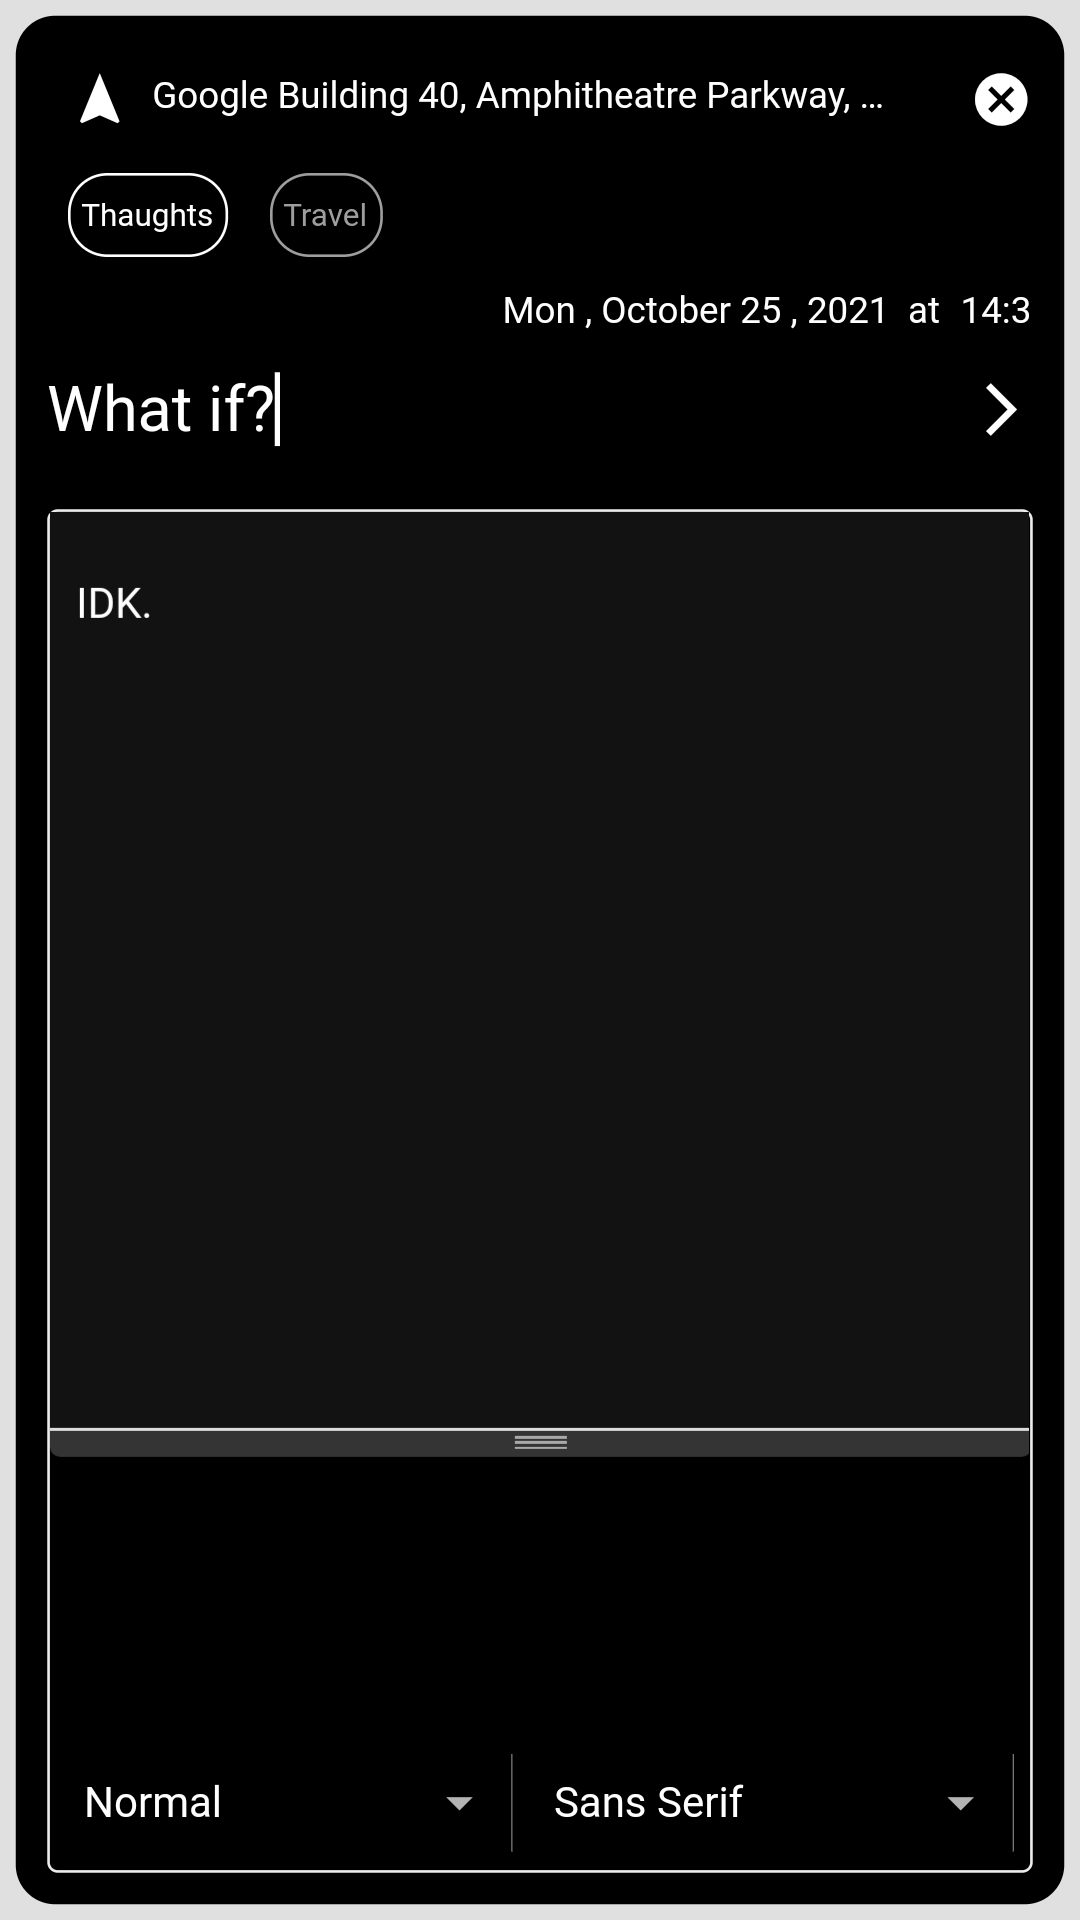
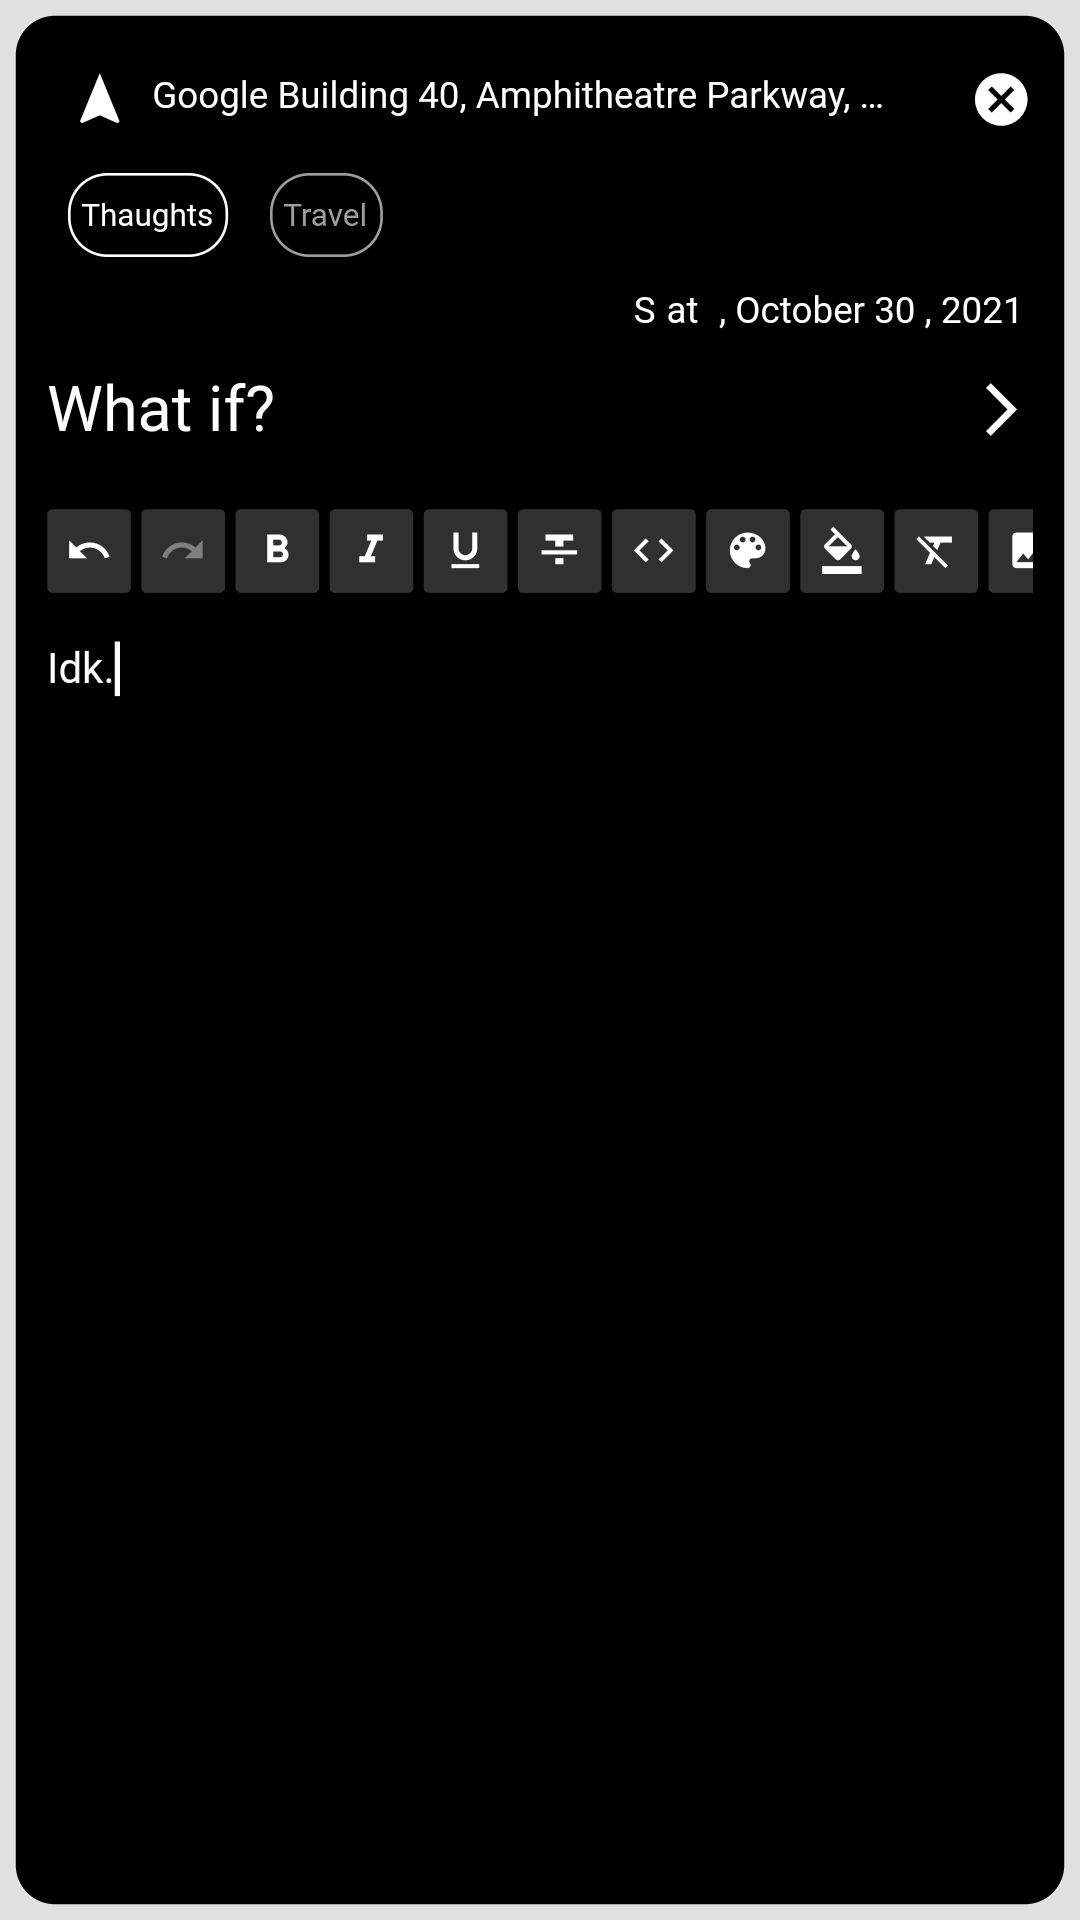
minor bug fixes and version upgrade

diff --git a/lib/momento_mori.dart b/lib/momento_mori.dart
@@ -63,9 +63,9 @@ class _MomentoMoriState extends State<MomentoMori> {
             ),
             Expanded(
                 child: MoriCal(
-              weekGoingOn: (_today.millisecondsSinceEpoch -
+              yearGoingOn: (_today.millisecondsSinceEpoch -
                       DateTime(value.year).millisecondsSinceEpoch) ~/
-                  6.048e+8,
+                  3.154e+10,
             )),
             SizedBox(
               height: 6,
@@ -92,32 +92,31 @@ class _MomentoMoriState extends State<MomentoMori> {
   }
 }
 
-// TODO Slow UI
 class MoriCal extends StatelessWidget {
   const MoriCal({
     Key? key,
-    required this.weekGoingOn,
+    required this.yearGoingOn,
   }) : super(key: key);
 
-  final int weekGoingOn;
+  final int yearGoingOn;
 
   final colCount = 10;
-  final totalWeeks = 4160;
+  final totalyears = 80;
 
   @override
   Widget build(BuildContext context) {
     return SingleChildScrollView(
       child: Column(
           children: List.generate(
-        totalWeeks ~/ colCount,
+        totalyears ~/ colCount,
         (rowIn) => Row(
           children: List.generate(
               colCount,
               (colIn) => Week(
                     key: Key((rowIn * colCount + colIn).toString()),
                     index: rowIn * colCount + colIn,
-                    color: (rowIn * colCount + colIn) >= weekGoingOn
-                        ? (rowIn * colCount + colIn) == weekGoingOn
+                    color: (rowIn * colCount + colIn) >= yearGoingOn
+                        ? (rowIn * colCount + colIn) == yearGoingOn
                             ? Colors.red
                             : Colors.white
                         : Colors.grey[900],

diff --git a/lib/journal/widgets/entry_card.dart b/lib/journal/widgets/entry_card.dart
@@ -19,6 +19,8 @@ class EntryCard extends StatelessWidget {
         document: quill.Document.fromJson(jsonDecode(journalEntry.text)),
         selection: TextSelection.collapsed(offset: 0));
 
+    final FocusNode _focusNode = FocusNode();
+
     return GestureDetector(
       onTap: () {
         Navigator.push(
@@ -47,9 +49,19 @@ class EntryCard extends StatelessWidget {
                 decoration: BoxDecoration(
                     color: Colors.black,
                     borderRadius: BorderRadius.circular(5)),
-                child: quill.QuillEditor.basic(
-                  controller: _controller,
-                  readOnly: true, // true for view only mode
+                child: Padding(
+                  padding: const EdgeInsets.all(8.0),
+                  child: quill.QuillEditor(
+                    scrollController: ScrollController(),
+                    showCursor: false,
+                    scrollable: true,
+                    focusNode: _focusNode,
+                    autoFocus: false,
+                    readOnly: true,
+                    expands: false,
+                    padding: EdgeInsets.zero,
+                    controller: _controller,
+                  ),
                 ),
               )
             ],

diff --git a/lib/journal/journal_entry_details.dart b/lib/journal/journal_entry_details.dart
@@ -24,6 +24,8 @@ class JournalEntryDetails extends StatelessWidget {
     final _controller = quill.QuillController(
         document: quill.Document.fromJson(jsonDecode(entry.text)),
         selection: TextSelection.collapsed(offset: 0));
+        
+  final FocusNode _focusNode = FocusNode();
 
     return Skeleton(
       child: Column(
@@ -94,9 +96,16 @@ class JournalEntryDetails extends StatelessWidget {
           ),
           Expanded(
             child: Container(
-              child: quill.QuillEditor.basic(
+              child: quill.QuillEditor(
+                scrollController: ScrollController(),
+                showCursor: false,
+                scrollable: true,
+                focusNode: _focusNode,
+                autoFocus: false,
+                readOnly: true,
+                expands: false,
+                padding: EdgeInsets.zero,
                 controller: _controller,
-                readOnly: true, // true for view only mode
               ),
             ),
           ),

diff --git a/lib/on_boarding.dart b/lib/on_boarding.dart
@@ -33,6 +33,18 @@ class _OnBoardingState extends State<OnBoarding> {
                 borderRadius: BorderRadius.circular(15)),
             height: 160,
             // TODO Year Picker bug
+
+            // child: CupertinoDatePicker(
+            //   mode: CupertinoDatePickerMode.date,
+            //   backgroundColor: Colors.white,
+            //   initialDateTime: DateTime.now(),
+            //   onDateTimeChanged: (DateTime value) {
+            //     setState(() {
+            //       _selectedYear = value.year;
+            //     });
+            //   },
+            // ),
+
             child: YearPicker(
               firstDate: DateTime.fromMillisecondsSinceEpoch(0),
               lastDate: DateTime.now(),

diff --git a/lib/journal/journal_entry_input.dart b/lib/journal/journal_entry_input.dart
@@ -241,7 +241,6 @@ class _JournalEntryInputState extends State<JournalEntryInput> {
                     SizedBox(
                       height: 12,
                     ),
-                    // TODO HTML EDITOR NOT WORKING.
                     SizedBox(
                       height: 50,
                       child: SingleChildScrollView(
